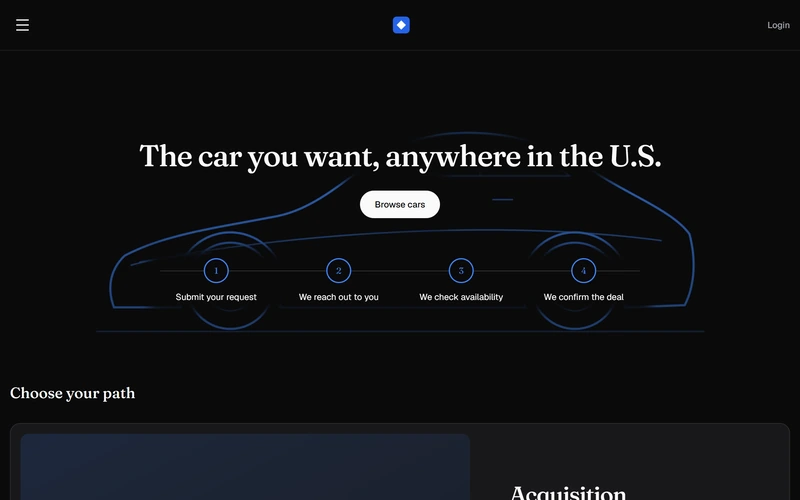
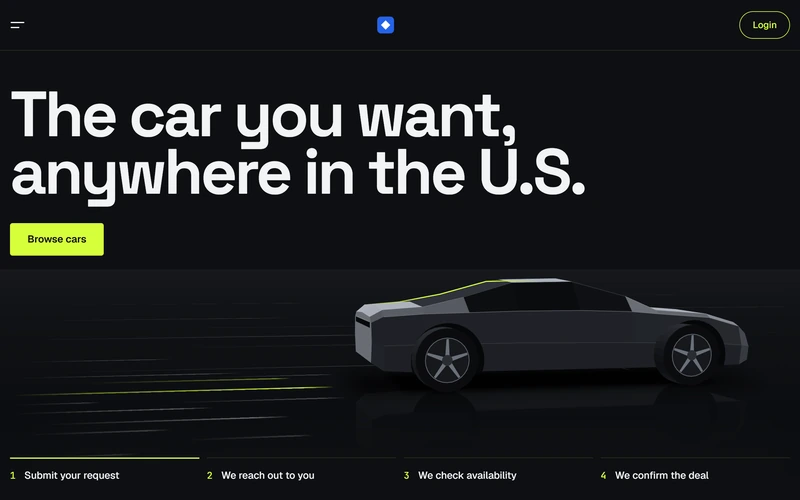
Car broker: the Night Drive look is live on the demo
New picture and Home thumb taken from the live demo, a new description,
and the "new look is coming" note removed.

diff --git a/index.html b/index.html
@@ -786,7 +786,7 @@ function readStoredTheme(storage){
     <section class="slider" id="projectSlider" role="group" aria-roledescription="carousel" aria-label="Projects" tabindex="0"></section>
     <noscript>
       <ul class="shelf-list">
-        <li><strong>Car broker template</strong>, Live. A website template for a vehicle broker. Visitors choose a path (rentals, leases, no credit check, car sourcing, or selling their car), pick a car and send a request, and the broker contacts them. A private dashboard runs it all. Inside the dashboard: Requests with a status for each car, search and filters, private notes, reply templates, a calendar and CSV export. Cars with photos, prices and tags for each path, and Duplicate. Switch paths on or off, manage locations and site images, and see top customers. Built with: Next.js, React, TypeScript, Tailwind, Supabase, Resend and Vercel. Where it stands: Live as a demo on invented data. Small adjustments are still coming. Note: A new look for the site and the dashboard is coming, so this picture and the demo will change. <a href="https://mdesigns-broker-demo.vercel.app" target="_blank" rel="noopener">Visit Car broker template (opens in a new tab)</a> <a href="mailto:duffaud.max@gmail.com?subject=Demo%20access%3A%20Car%20broker%20template&amp;body=Hi%20Max%2C%0A%0AI%20saw%20Car%20broker%20template%20on%20your%20site%20and%20would%20like%20access%20to%20the%20dashboard.">Ask for access to the dashboard of Car broker template</a></li>
+        <li><strong>Car broker template</strong>, Live. A website template for a vehicle broker. Visitors choose a path (rentals, leases, no credit check, car sourcing, or selling their car), pick a car and send a request, and the broker contacts them. A private dashboard runs it all. Inside the dashboard: Requests with a status for each car, search and filters, private notes, reply templates, a calendar and CSV export. Cars with photos, prices and tags for each path, and Duplicate. Switch paths on or off, manage locations and site images, and see top customers. Built with: Next.js, React, TypeScript, Tailwind, Supabase, Resend and Vercel. Where it stands: Live as a demo on invented data. Small adjustments are still coming. <a href="https://mdesigns-broker-demo.vercel.app" target="_blank" rel="noopener">Visit Car broker template (opens in a new tab)</a> <a href="mailto:duffaud.max@gmail.com?subject=Demo%20access%3A%20Car%20broker%20template&amp;body=Hi%20Max%2C%0A%0AI%20saw%20Car%20broker%20template%20on%20your%20site%20and%20would%20like%20access%20to%20the%20dashboard.">Ask for access to the dashboard of Car broker template</a></li>
         <li><strong>This website</strong>, Live. A showcase of me: my professional experience in the CV, my creative side in the look, and my tech side in the site itself and its animations, including a 3D flight over the places where I was born, studied and worked. I bring the vision and lead, and Claude brainstorms and builds it with me. Built with: Claude, in plain HTML, CSS and JavaScript, with three.js and GSAP for the 3D. No framework. Where it stands: Live and still growing. It will keep growing as new projects happen and I keep expanding it. <a href="#projects/site">See how This website is built</a></li>
         <li><strong>Voice organizer</strong>, Building and testing. A voice-first to-do and memory system. I talk to Claude on my phone, even in a long ramble, and it files what I said into Notion as tasks, reminders, appointments, notes and ideas. It checks for repeats, plans my day, wraps it up with me and keeps a searchable daily log. Inside the dashboard: A Notion dashboard with the list for today, what slipped from earlier, an inbox, a calendar, build ideas, ideas and notes, and a daily log that keeps everything I said. Built with: The Claude app on my phone and Notion, with a written set of instructions. Nothing to host. Where it stands: Built and in testing on my own phone. More features are planned, and it is not public.</li>
         <li><strong>Broker template for any market</strong>, Planned. One template for any broker business, built from the car broker. The skeleton stays the same: a catalog, requests with a status, private notes, reply templates and a calendar. For each market, the paths visitors choose, the details of each item and the look change. Built with: The same stack as the car broker: Next.js, TypeScript, Tailwind CSS and Supabase. Where it stands: Planned. It starts once the car version is complete.</li>

diff --git a/js/projects.js b/js/projects.js
@@ -17,10 +17,9 @@ const PROJECTS = [
     dashboard: 'Requests with a status for each car, search and filters, private notes, reply templates, a calendar and CSV export. Cars with photos, prices and tags for each path, and Duplicate. Switch paths on or off, manage locations and site images, and see top customers.',
     builtWith: 'Next.js, React, TypeScript, Tailwind, Supabase, Resend and Vercel.',
     stands: 'Live as a demo on invented data. Small adjustments are still coming.',
-    note: 'A new look for the site and the dashboard is coming, so this picture and the demo will change.',
     image: {
       src: 'img/projects/car-broker/home.webp', thumb: 'img/projects/car-broker/home-thumb.webp', w: 1600, h: 1000,
-      alt: 'The home page of the car broker demo: a headline about finding any car in the U.S., a Browse cars button, and four steps from request to confirmed deal over an outline of a car.',
+      alt: 'The home page of the car broker demo: a headline about finding any car in the U.S., a Browse cars button, a low-poly car speeding past light streaks, and four steps from request to deal.',
     },
   },
   {

diff --git a/CLAUDE.md b/CLAUDE.md
@@ -129,7 +129,7 @@ is `next`); merging into `main` goes live in about a minute and needs the owner'
    - Voice organizer: text done and live 2026-10-27, drafted from his Organizer folder (what it does, an "Inside the dashboard" row, "More features are planned"); no Notion links or page ids on the site. A real screenshot of his Notion dashboard would replace the drawn flow later.
    - Broker template for any market: text done 2026-10-27 (one template per market that adapts: the skeleton stays, the paths, the item details and the look change). The word list is homes, boats, equipment, collectibles, villas; it fits one-of-a-kind items sold by a person who replies, not instant checkout or big stock. Still "Planned".
      His team-mode idea for it (ranks, a shared inbox) is NOT built and not on the site: the notes are in `team-mode-notes.local.md` (git-ignored). Build it when a client with staff asks.
-   - Next: the car broker's new look when it lands (retake the screenshot, delete the `note`: item 4).
+   - The car broker's new look landed 2026-11-14: he chose "Night Drive" (site and dashboard; built in `template-work`, branch `look/livery`, and in `template-night-drive`) and it is live on the demo. Picture retaken, `note` deleted (item 4).
 3. "How I work": text done and in `index.html` 2026-10-28 (a block under the slider on the Projects page, `section.how-i-work`, hidden in the case view; four steps, "Don't hesitate to reach out, no obligation",
    a reply within two business days (he does not want it to say "free"), one button that emails the CV address; the templates are a base, something 100% custom can be built). Only promises he gave; no prices, no delivery times. Idea for after that:
    sell the basic templates on a marketplace for digital products and offer the custom service there too (nothing researched yet; check licenses, support and what is claimed before listing anything).
@@ -140,10 +140,10 @@ is `next`); merging into `main` goes live in about a minute and needs the owner'
 3b. IDEA, to brainstorm with him after the planned list is done (his words, 2026-10-28): a small avatar of him, a "mini me", on the side of every page, that talks with the visitor, can be hidden by the
    visitor, interacts, and says things from time to time depending on the active page, talking about him. Nothing built or decided yet; start with the brainstorming skill and settle the questions
    (what it says and who writes it, how it looks, how it hides and whether it stays hidden, motion and reduced motion, phone, no tracking, and nothing it says that he cannot stand behind).
-4. Projects, the picture work: the car broker demo (`https://mdesigns-broker-demo.vercel.app`) is about to change visually, so its slide image must be retaken when it does:
+4. Projects, the picture work: DONE for the car broker on 2026-11-14 (the Night Drive look). Whenever the demo (`https://mdesigns-broker-demo.vercel.app`) changes look again, retake its slide image the same way:
    `node scripts/clips/capture.mjs car-broker`, then `node scripts/clips/still.mjs captures/car-broker/01-home.png img/projects/car-broker/home.webp --w 1600 --h 1000 --limit 250000`
-   and the same with `home-thumb.webp --w 800 --h 500 --limit 80000`, update the image `alt` in `js/projects.js` if the page looks different, delete the car broker's `note` there
-   (the "new look is coming" line under its title), then run `node scripts/projects-list.mjs`. Later: real screenshots for the organizer (his phone) and the marketplace, replacing
+   and the same with `home-thumb.webp --w 800 --h 500 --limit 80000`, update the image `alt` in `js/projects.js` if the page looks different (it is pinned in `scripts/projects.test.mjs`),
+   add or delete a `note` there if a look is announced or lands, then run `node scripts/projects-list.mjs`. Later: real screenshots for the organizer (his phone) and the marketplace, replacing
    their drawn diagrams; a public `href` when another demo has one. What the earlier reviews left (notes for Fable, deferred minors) is in
    `docs/superpowers/notes/2026-10-25-review-results.md` and `2026-10-25-projects-slider-results.md`.
 5. Trip stage 2 (Explore mode) is PARKED. On 2026-10-28 the owner said the globe is final as it is live (the flight with the stops, the albums, and the flat map as the fallback when the 3D globe cannot load), and the CV board too. Explore came from the master design (2026-10-18) and the stage 1 design (2026-10-24, his option A: the flight first, Explore after): a second mode that unlocks the globe to drag and zoom, with the countries highlighted by tier and clickable for an album or note. It needs Fable to add `setMode` and a country event to `modules/globe.js` (neither exists in the code here, checked 2026-10-28; never edit his files without asking him). Do it only if the owner asks.
